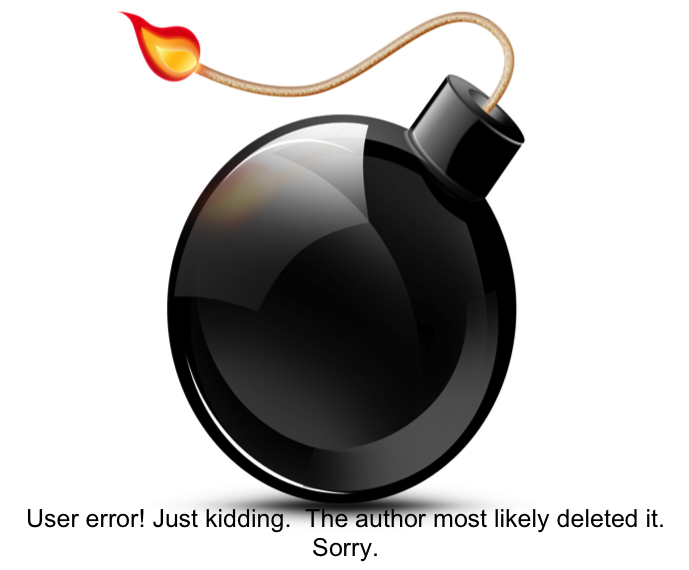
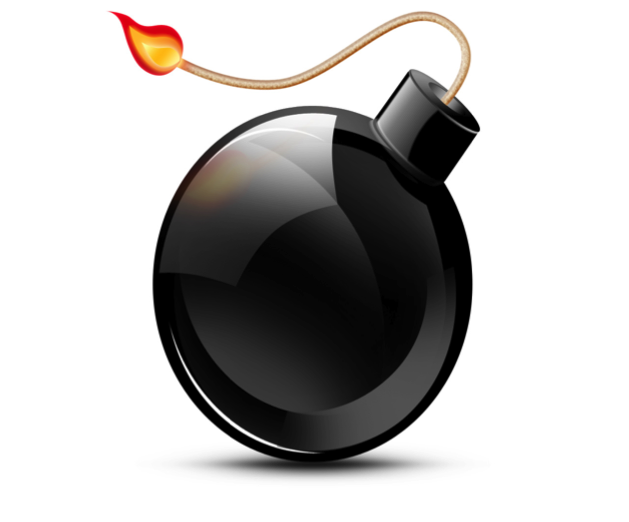
revise 500 error message

diff --git a/public/500.html b/public/500.html
@@ -22,8 +22,9 @@
 <ul class="thumbnails">
   <li class="span12">
     <div class="thumbnail" align="middle">
-      <img alt="500error" src="/the_bomb500.png" >
+      <img alt="500error" src="/the_bomb500.png" height="200px" >
   </li>
+  <li>  User Error!  Just kidding. The author most like deleted the question.  Sorry!
 </ul>
   <br><br>
   <a href="http://www.jiffyq.com">Go to Home</a>
